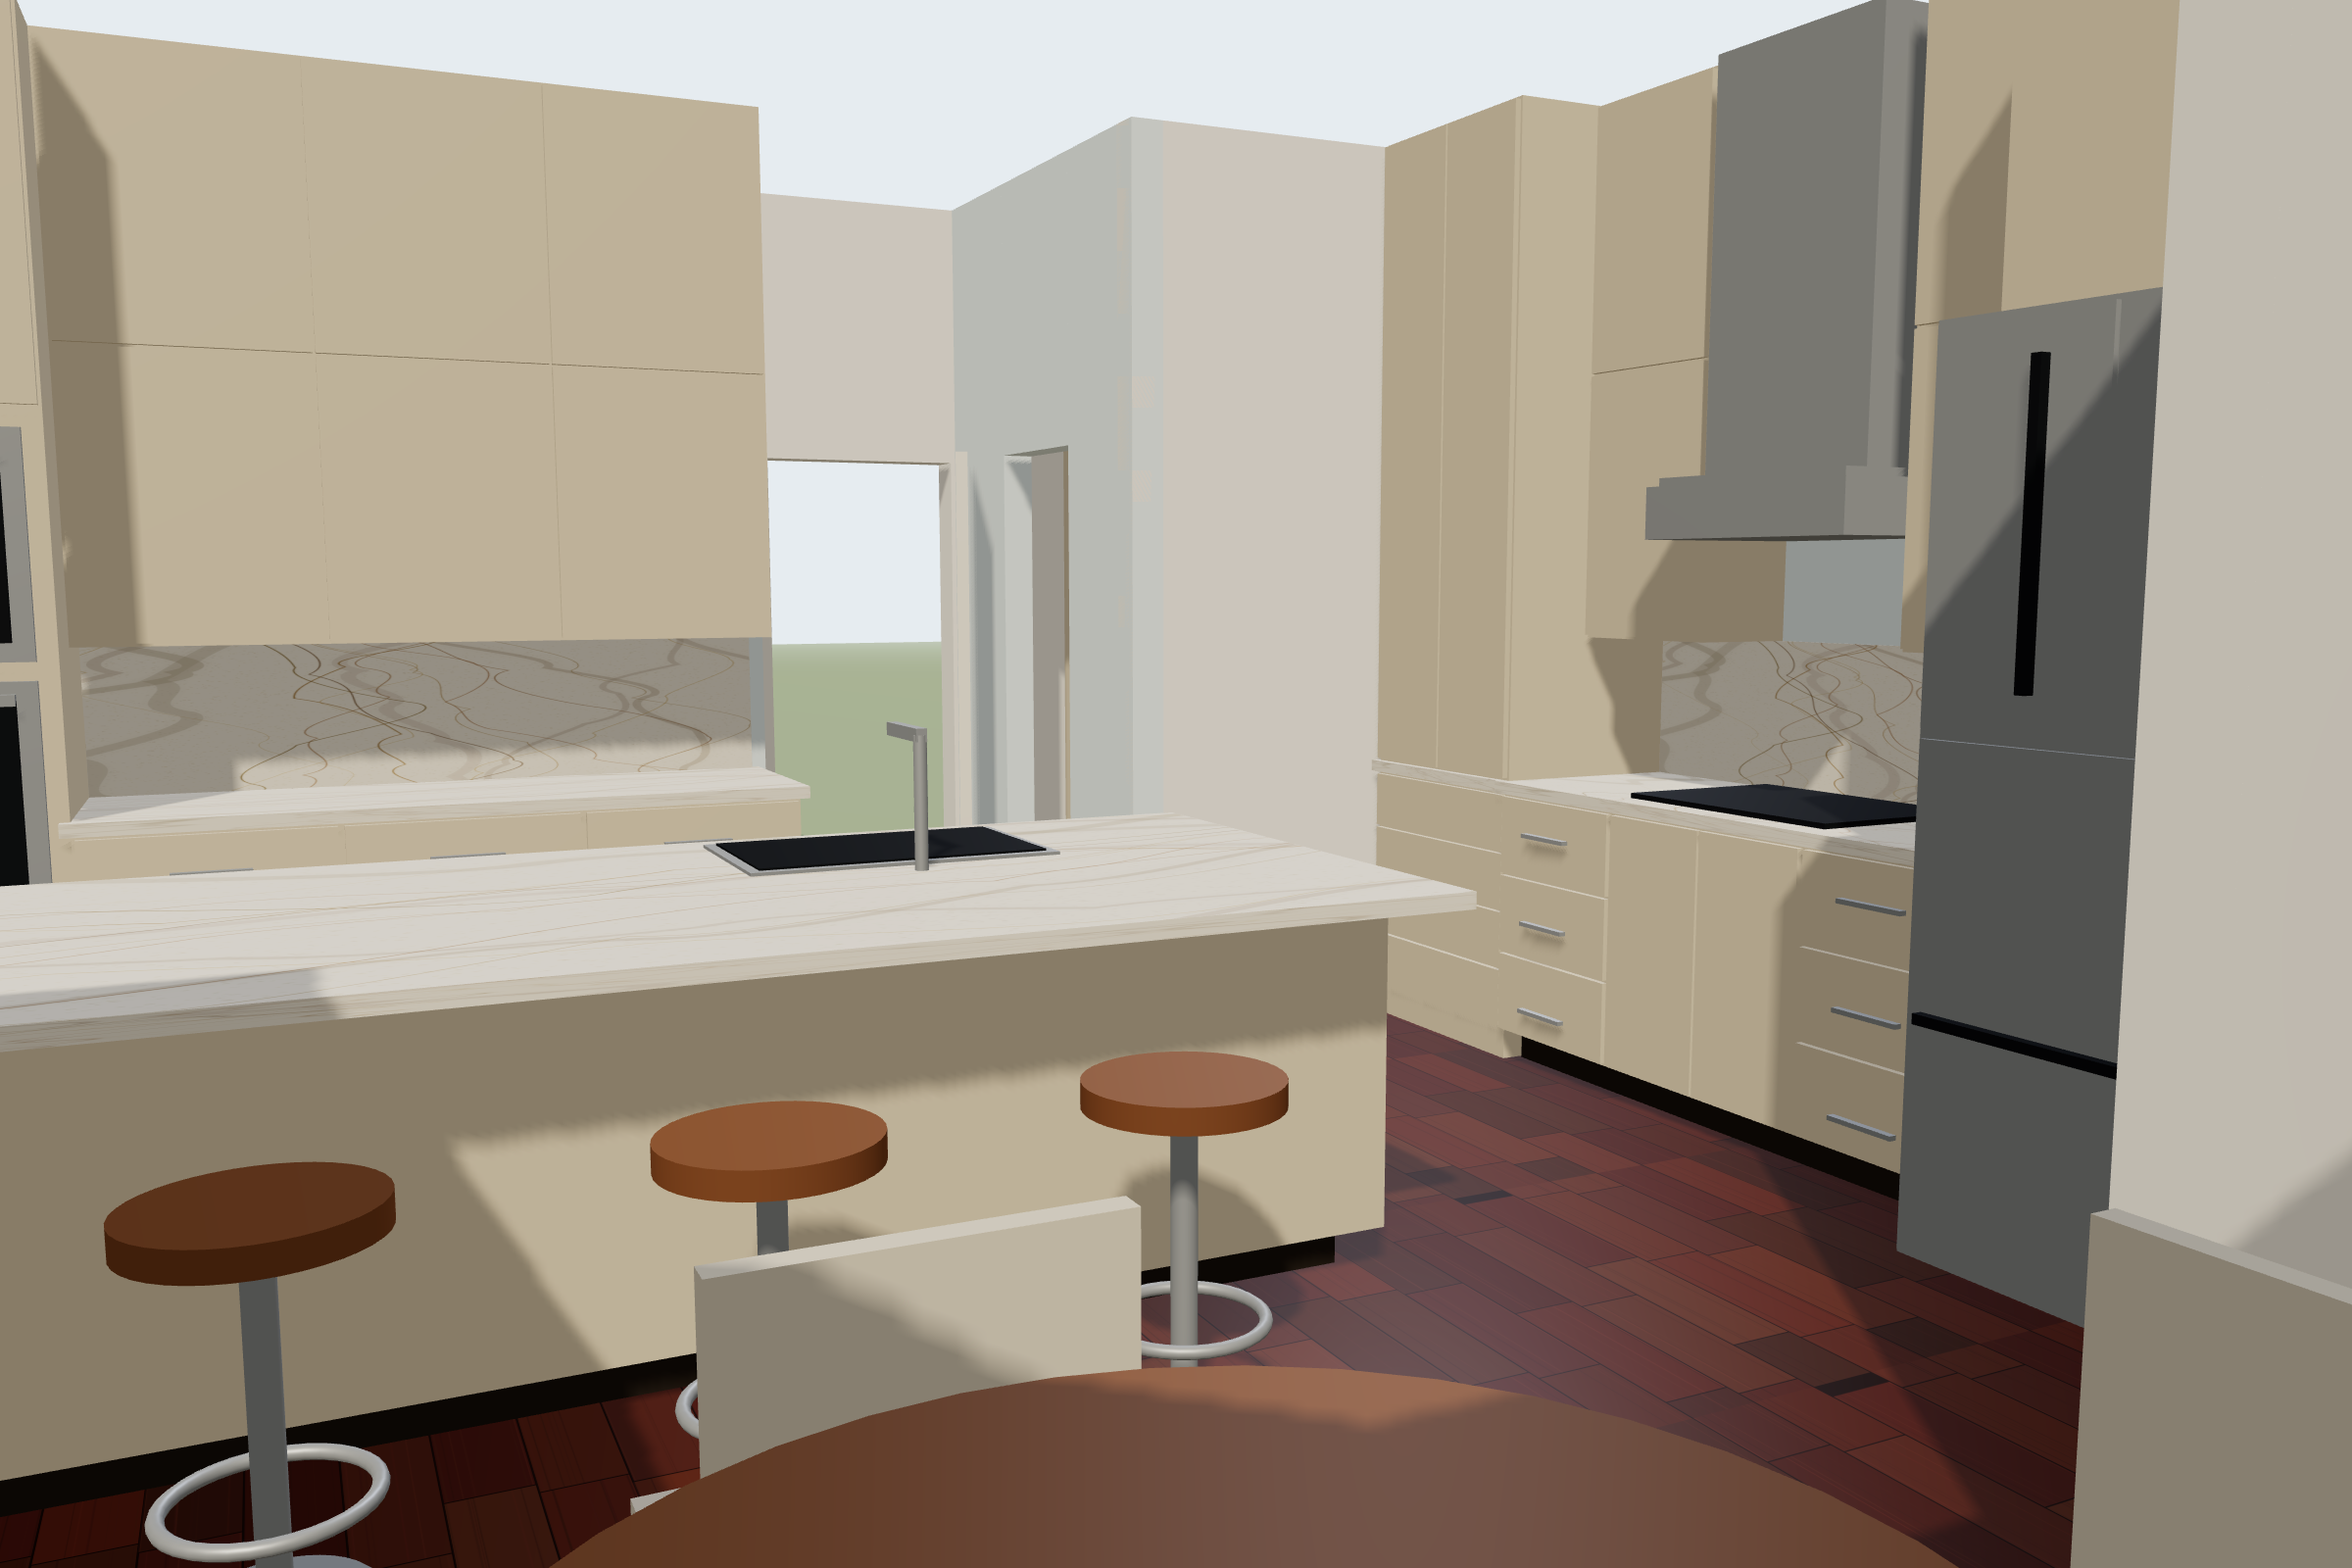
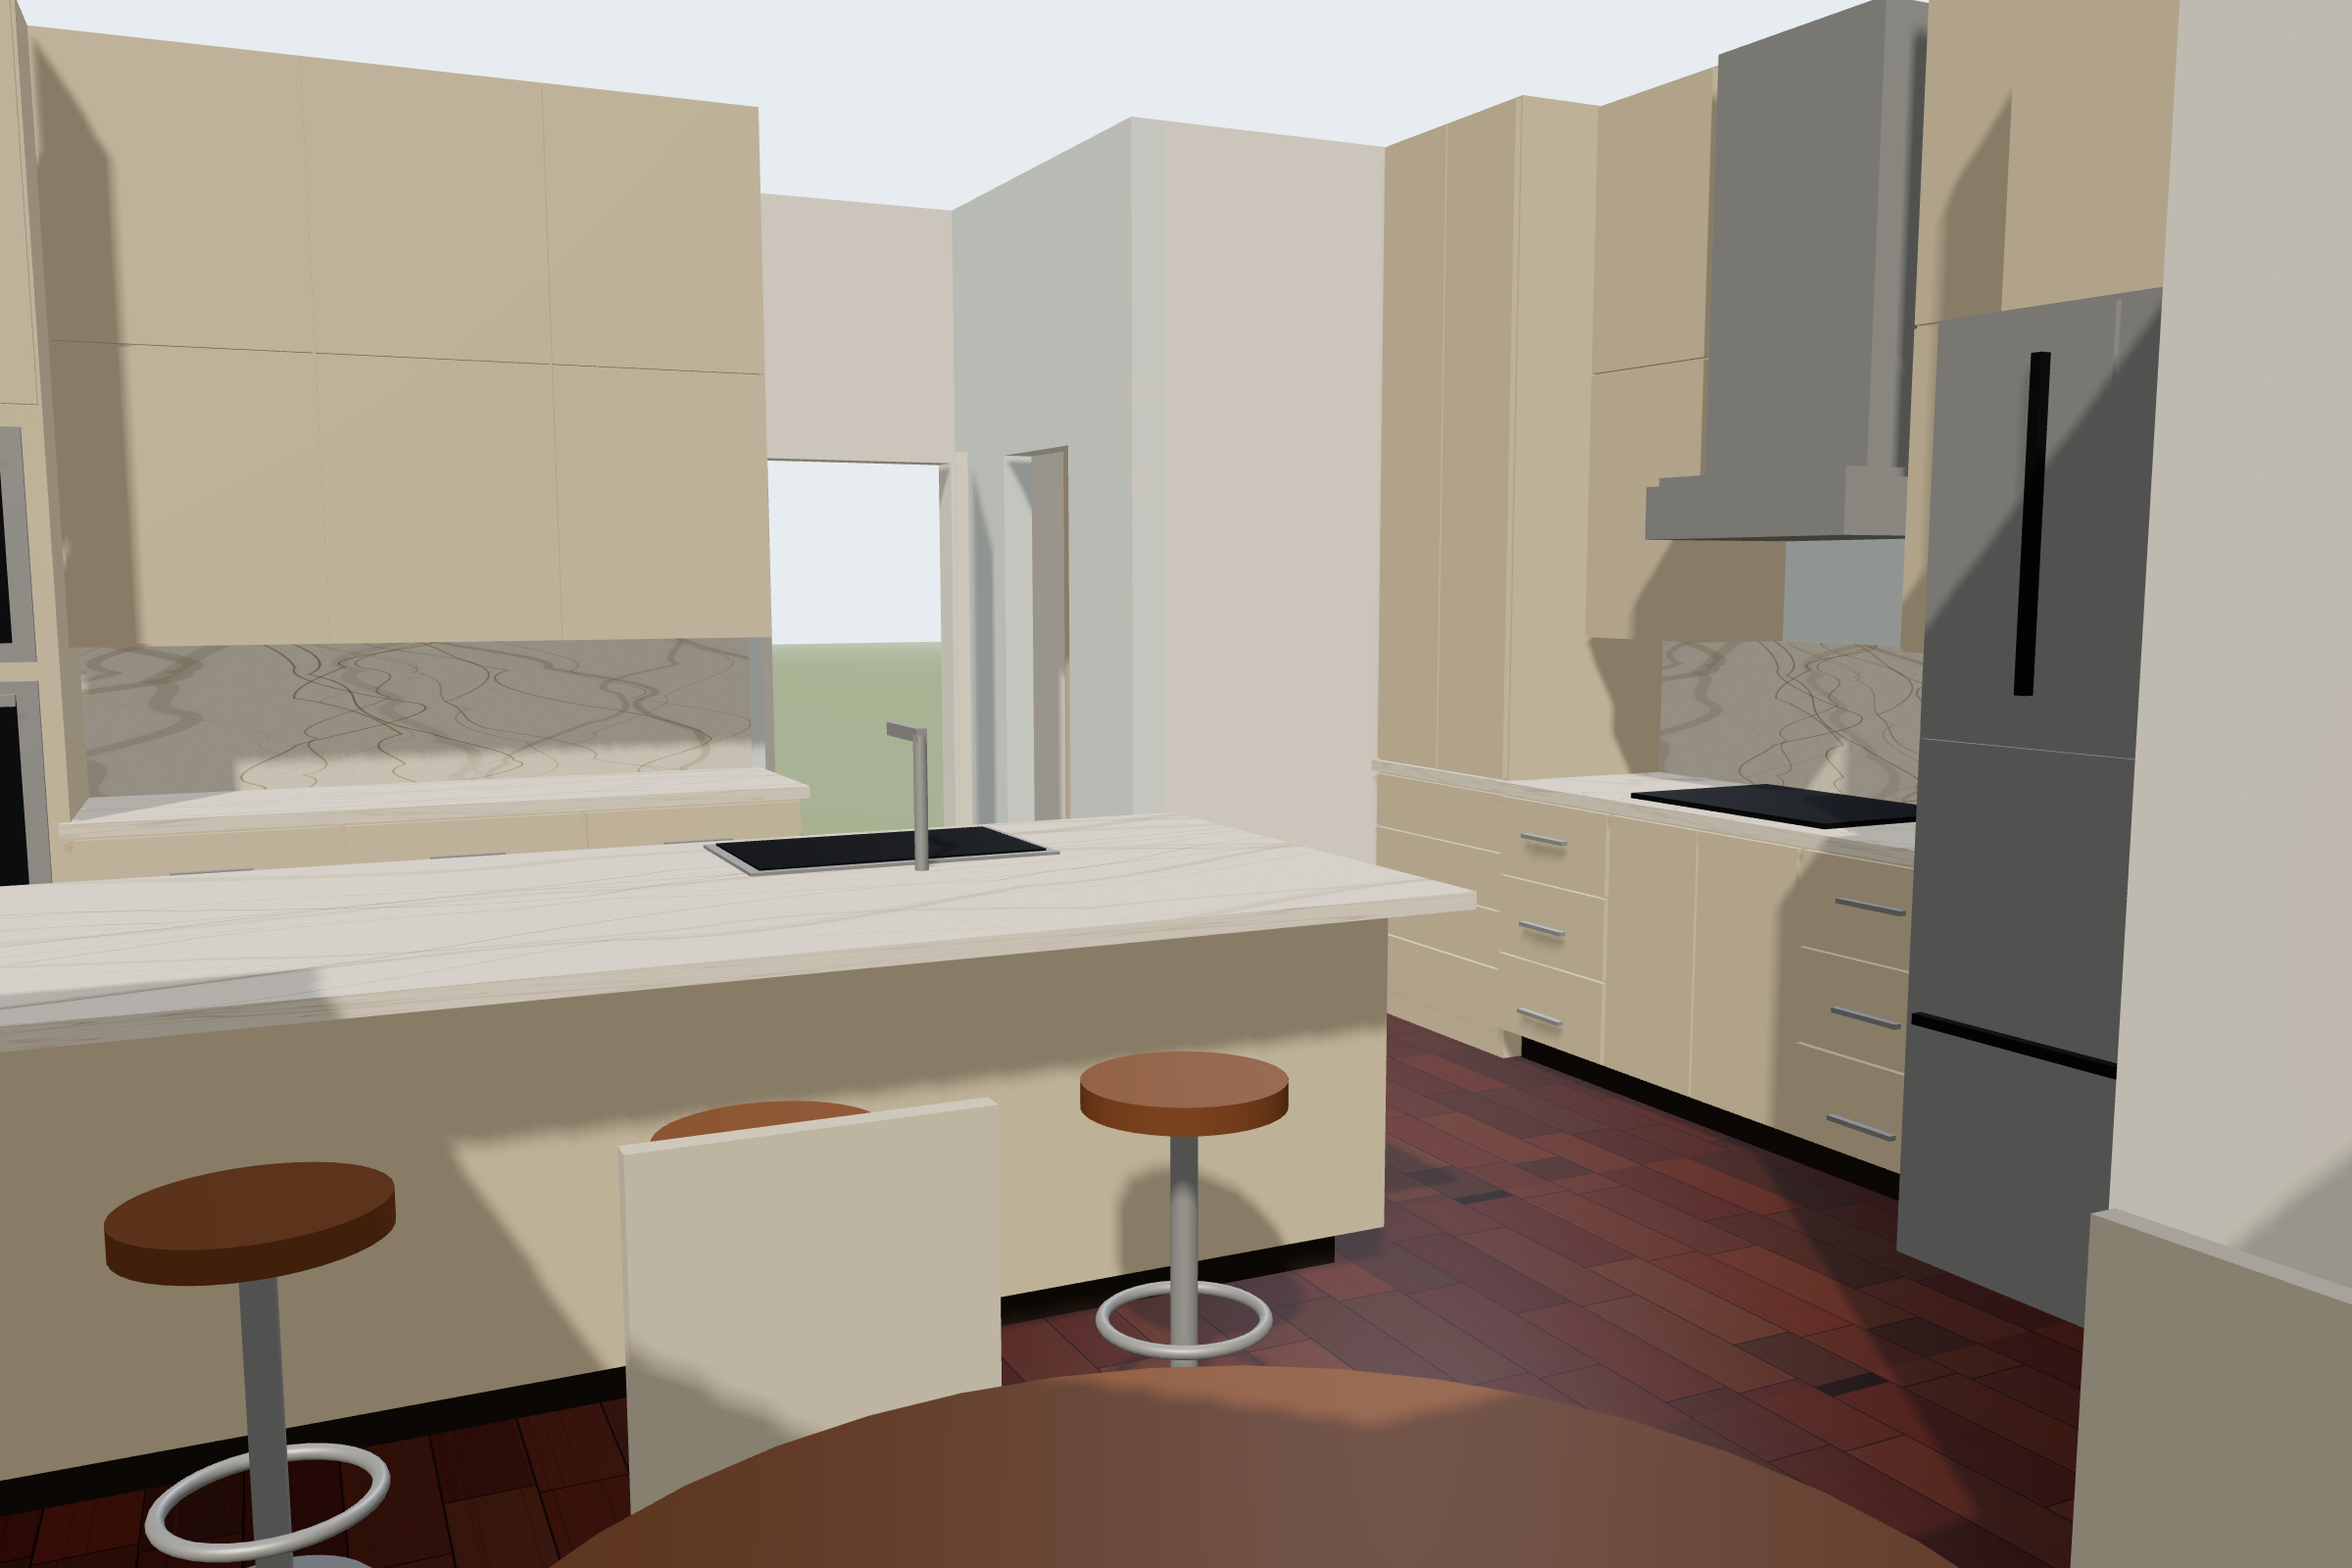
Face the dining chairs toward the table; add island bar stools

Changed region(s): [[0.25, 0.6875, 0.5, 0.9688]]

diff --git a/index.html b/index.html
@@ -301,7 +301,8 @@ function chair(cx,cz,a){
   add(-9,9,17,19,-9,9,M.chair); add(-9,9,19,36,-9,-7.5,M.chair);
   [[-8,-8],[8,-8],[-8,8],[8,8]].forEach(([x,z])=>add(x-0.75,x+0.75,0,17,z-0.75,z+0.75,M.chairLeg));
 }
-chair(TC[0],TC[1]-36,0); chair(TC[0],TC[1]+36,Math.PI); chair(TC[0]+36,TC[1],Math.PI/2); chair(TC[0]-36,TC[1],-Math.PI/2);
+// chair back is on the local -z side; rotate so each back faces away from the table
+chair(TC[0],TC[1]-36,0); chair(TC[0],TC[1]+36,Math.PI); chair(TC[0]+36,TC[1],-Math.PI/2); chair(TC[0]-36,TC[1],Math.PI/2);
 
 // ---------- labels ----------
 const labels=new THREE.Group(); scene.add(labels);
